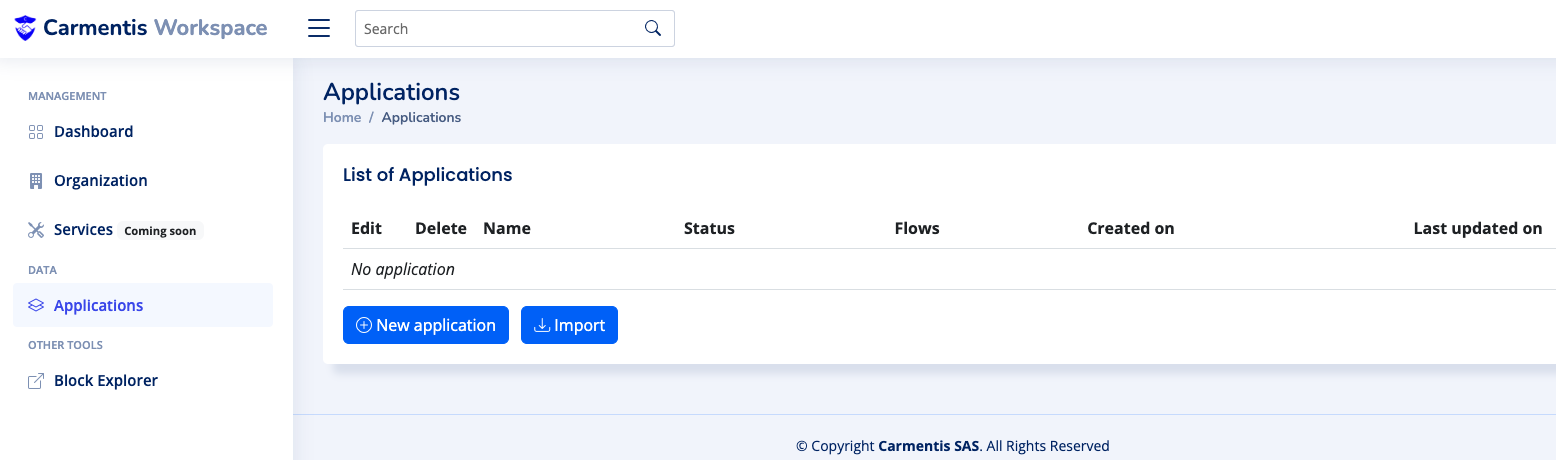
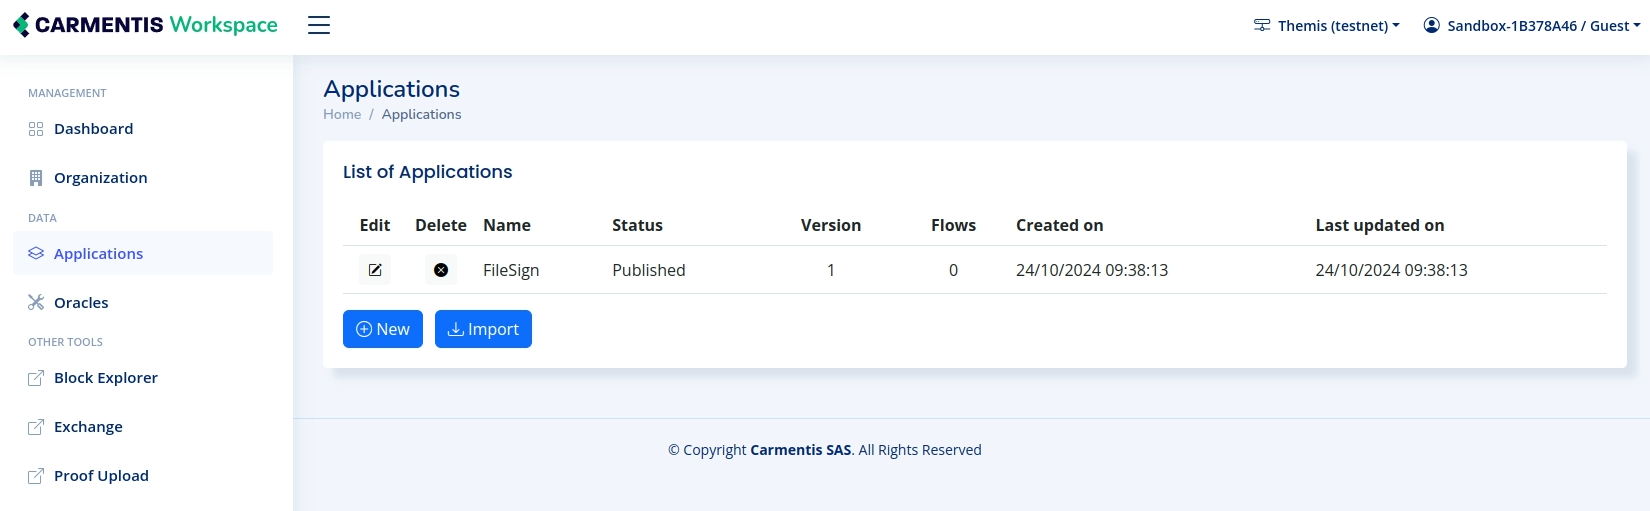
Deletion of "how to write an operator" + refactor of "register your application"

diff --git a/docs/how-to/register-your-application.md b/docs/how-to/register-your-application.md
@@ -4,29 +4,20 @@ sidebar_position: 10
 
 # Register your application
 
-To save record proofs for your end-users, you need to sign in to the Carmentis workspace and create your application then publish it on the chain through the Carmentis explorer.
 
-## Steps
+An application in our workspace  serves as a framework for defining the structure of events that facilitate 
+interactions between users and the underlying system. It acts as a blueprint that outlines how data flows and 
+how actions are represented. For more details, we encourage you to read the 
 
-1. Go to the Carmentis explorer.
-- Testnet: https://testnet.carmentiscan.io/explorer
-- Themis (mainnet): Coming soon
+To register an application in your workspace, which is essential for defining the structure of events that your application will utilize, follow these steps:
 
-2. Click on "Workspace"
+1. Visit your workspace by either clicking on the Workspace link in the [explorer](https://data.testapps.carmentis.io) or directly navigating to https://data.testapps.carmentis.io/workspace.
+2. Sign in to your account to gain access to your workspace features.
+3. Once signed in, look for the Application section in the sidebar menu and click on it.
+   ![applications.png](/img/workspace/applications.png)
+4. To create a new application, select the option to add a new application. A modal will appear, prompting you to 
+enter the name of the application you wish to create.
+   ![new-application.png](/img/workspace/new-application.png)
 
-3. Sign in with your Carmentis account (or click on "create an account" if you don't have one).
-4. Click on "Applications" in the left menu. You will see the list of your applications.
-
-![applications.png](/img/workspace/applications.png)
-
-5. Click on "New application" to declare a new application, fill in the form then click on "Create".
-
-![new-application.png](/img/workspace/new-application.png)
-
-6. After creating your application, you will see it in the list of your applications.
-
-![applications-2.png](/img/workspace/applications-2.png)
-
-7. Click on "Edit" to access the details of your application.
-8. You will see the details of your application. You can edit them if needed. We will see in the next section how to configure your application.
-9. After configuring your application, you have to deploy it on the Carmentis network by clicking on "Deploy".
+Click on **"Edit"** to view the details of your application. Here, you can review and modify the information as necessary. In the following section, we will explore how to configure your application. Once you have configured it, you will need to deploy it to the Carmentis network by clicking on **"Deploy."**
+By registering your application, you define the event structures that will be used by the SDK, enabling it to interpret the input your concrete application sends effectively. This process is crucial for ensuring smooth communication and data management within your workspace.
